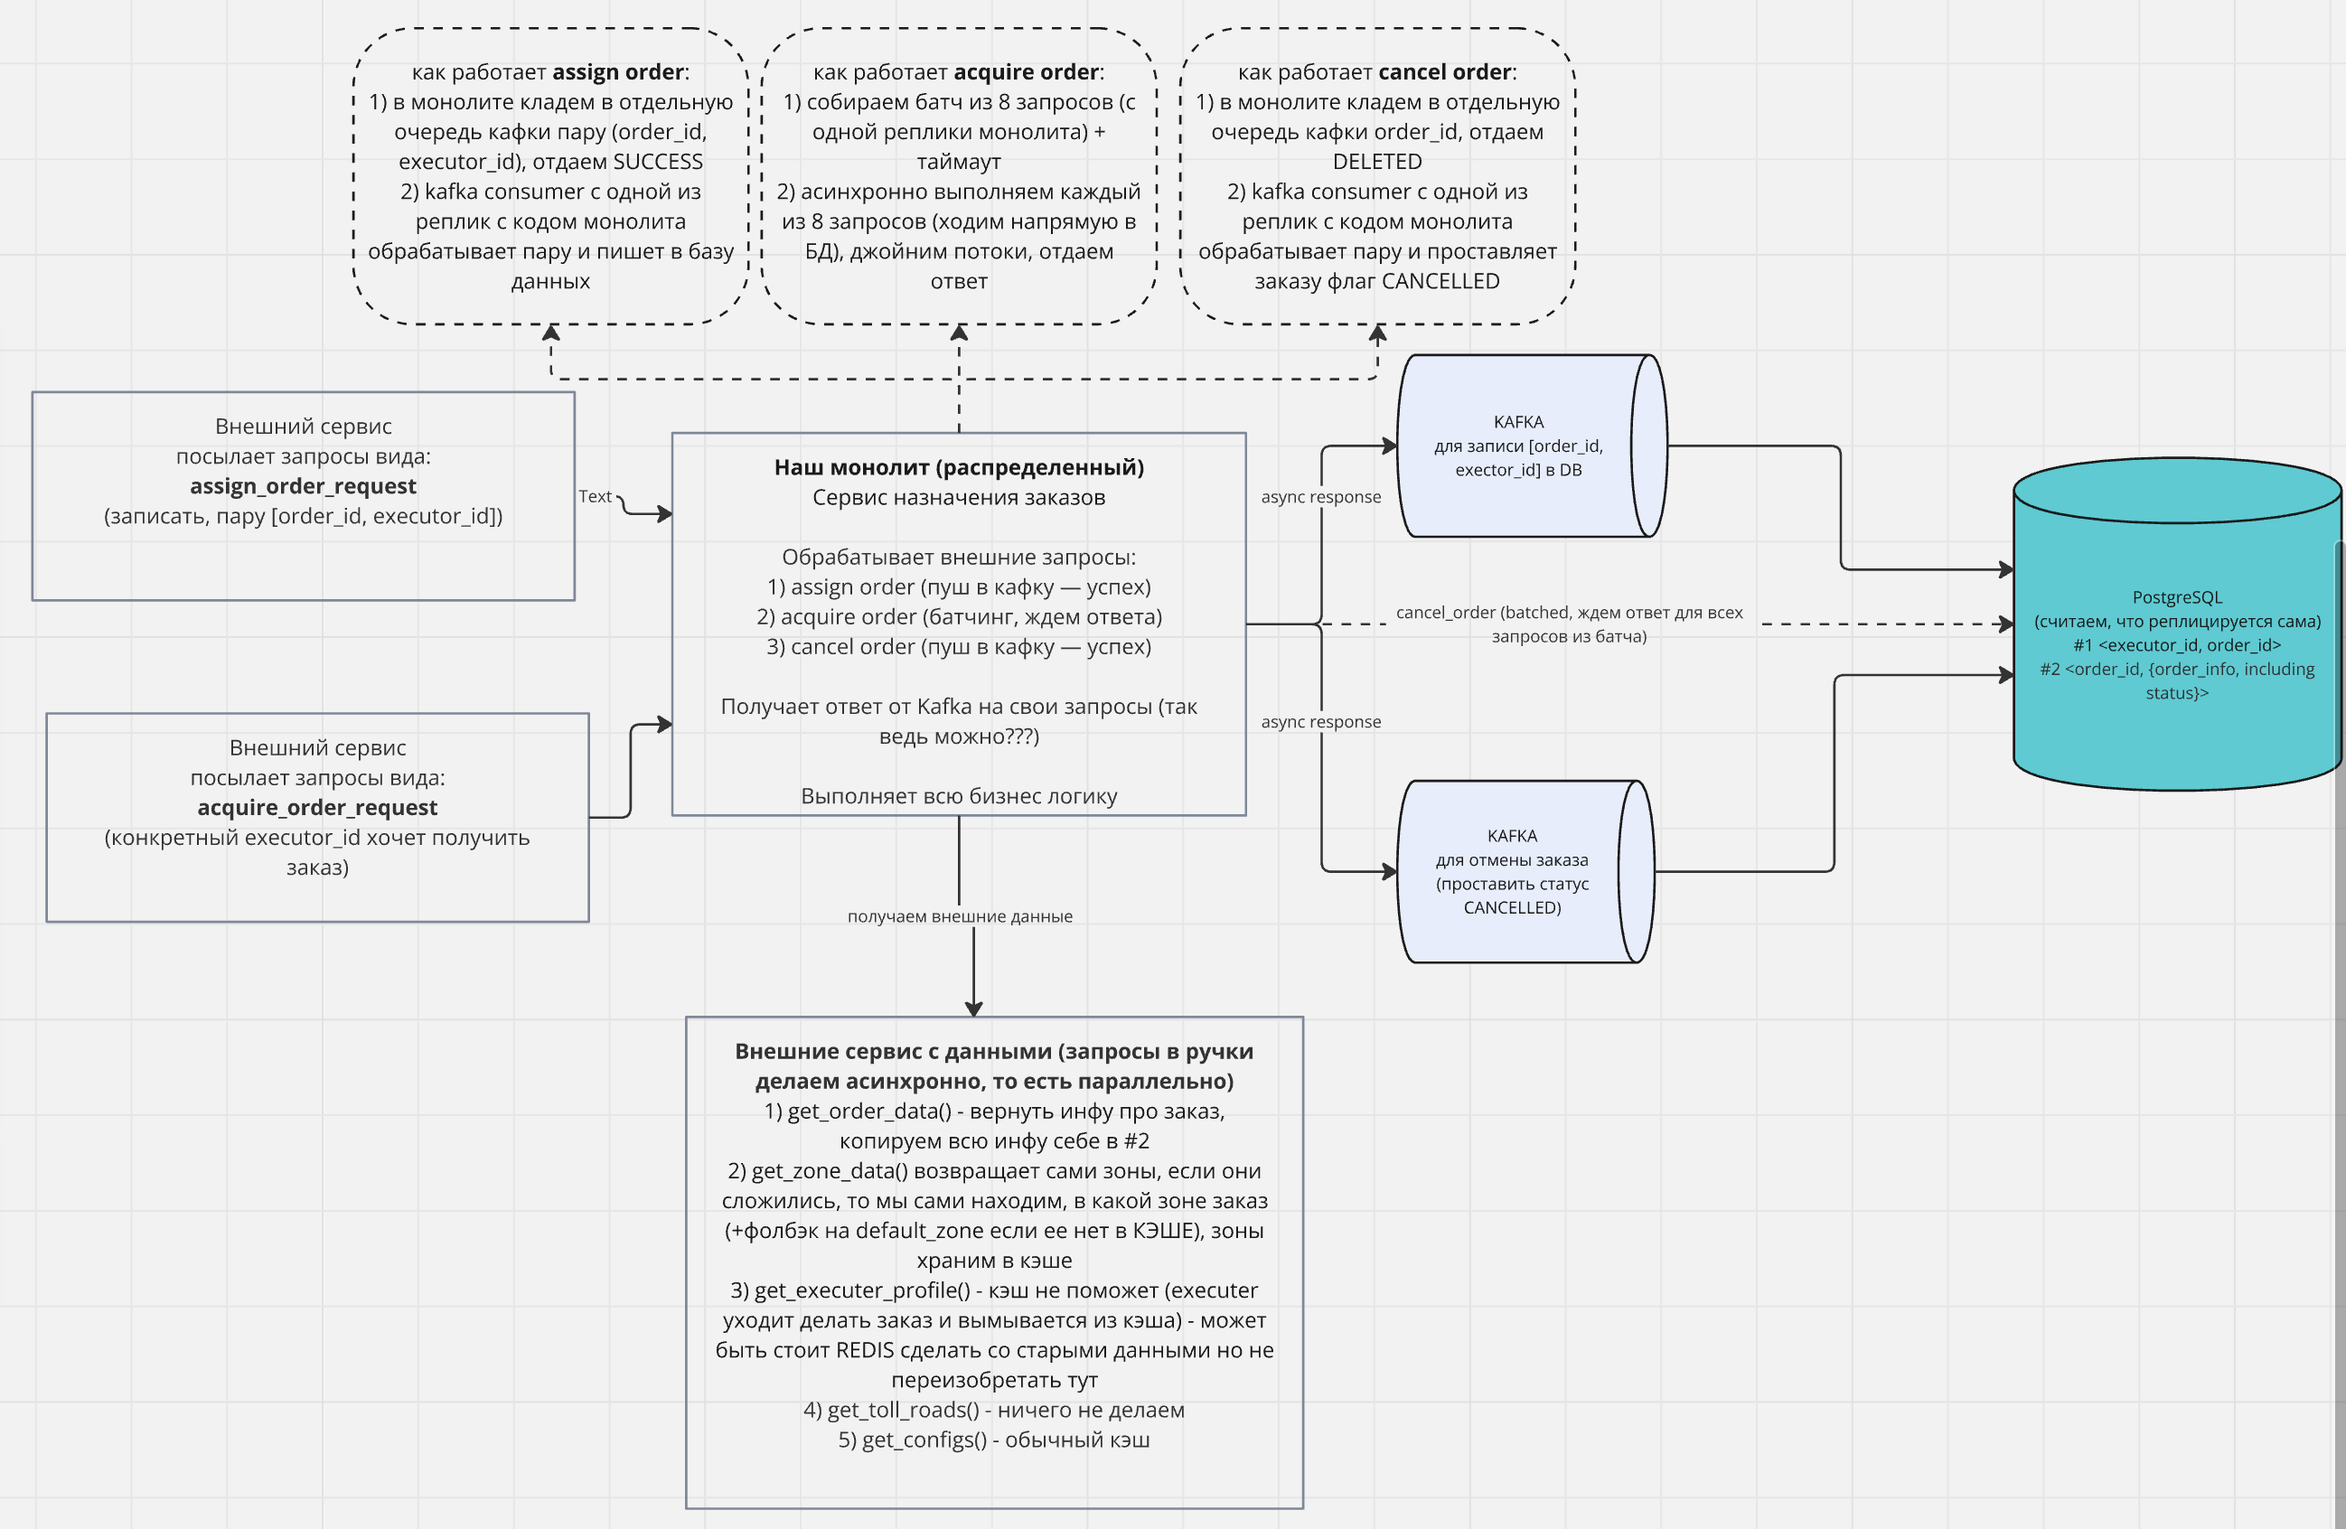
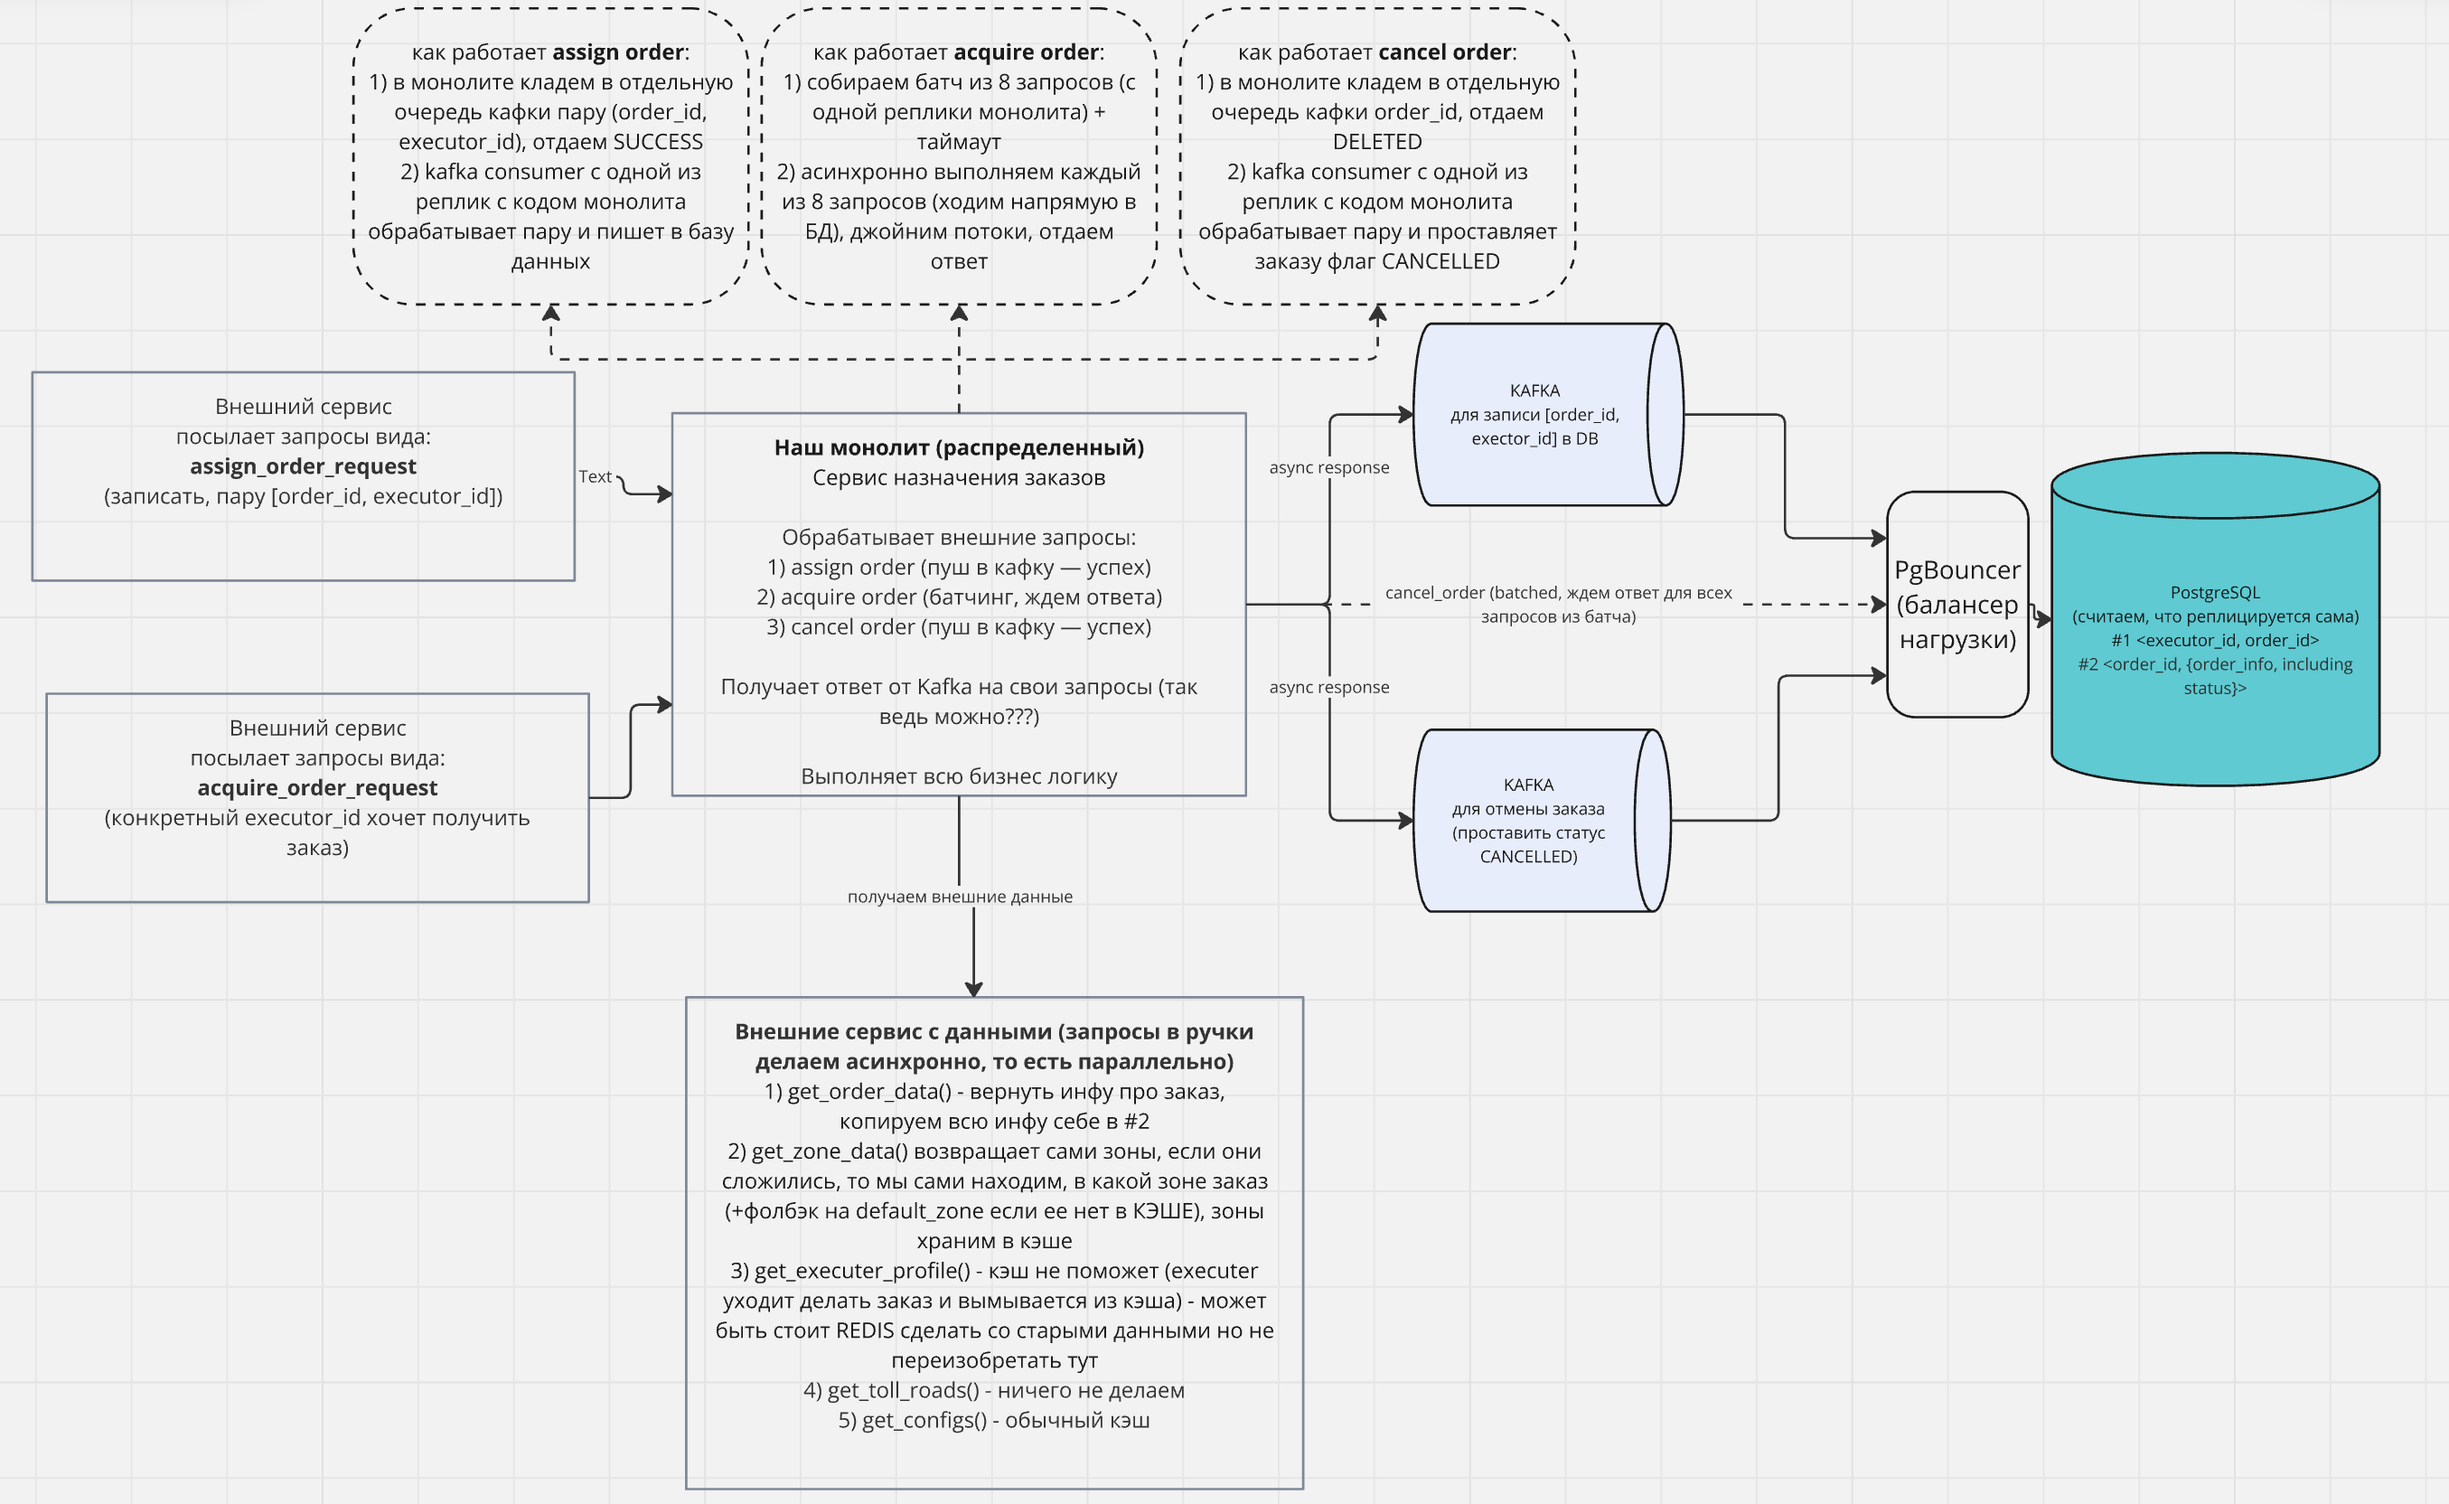
change sysdes scheme and readme

diff --git a/readme.MD b/readme.MD
@@ -1,20 +1,10 @@
-## Начальная реализация домашнего задания
-Данная реализация:
+## Что было сделано (отчет)
 
-- не выполняет функциональные требования
-- предусмотренно нарушает принципы SOLID, и, как следствие, не выполняет требования по Maintainability
-- не имеет в наличии БД, то есть не выполняет требования по Reliability
-- ничего не говорит про развертывание и не выполняет требования по Scalability
+Придуман дизайн системы (с деталями реализации), см. файл "[image] system design scheme.png"
 
-Тем не менее, тут описаны некоторые основные API, и можно сделать вывод о том, куда будет развиваться приложение
-Некоторые подходы сознательно применены (например, выделен слой доступа к данным и объекты DTO), но некоторые
-сознательно нарушены :)
+### Ключевые моменты по дизайну системы:
 
-Содержательная часть вашей работы состоит в том, чтобы не фокусируясь на бизнес-логике -- благо, тут она довольно
-простая -- сформировать подходящую архитектуру и написать вашу реализацию с учетом принципов SOLID.
-
-### Описание
-
-- main.py содержит несколько функций-реализаций бизнес-логики для примера
-    - Также, содержит 2 тестовых сценария работы
-- Вы можете использовать у себя неимоверной сложности модуль 'fastapi_stubs.py' для отладки/дебага :)
+- реализация — это монолит
+- для двух типов запросов (assign и cancel) в качестве очереди событий используем Apache Kafka
+- в качестве DB используем PostgreSQL (хорошая документация, репликация из коробки, готовый балансер)
+- используем PgBouncer в качестве балансера для DB
